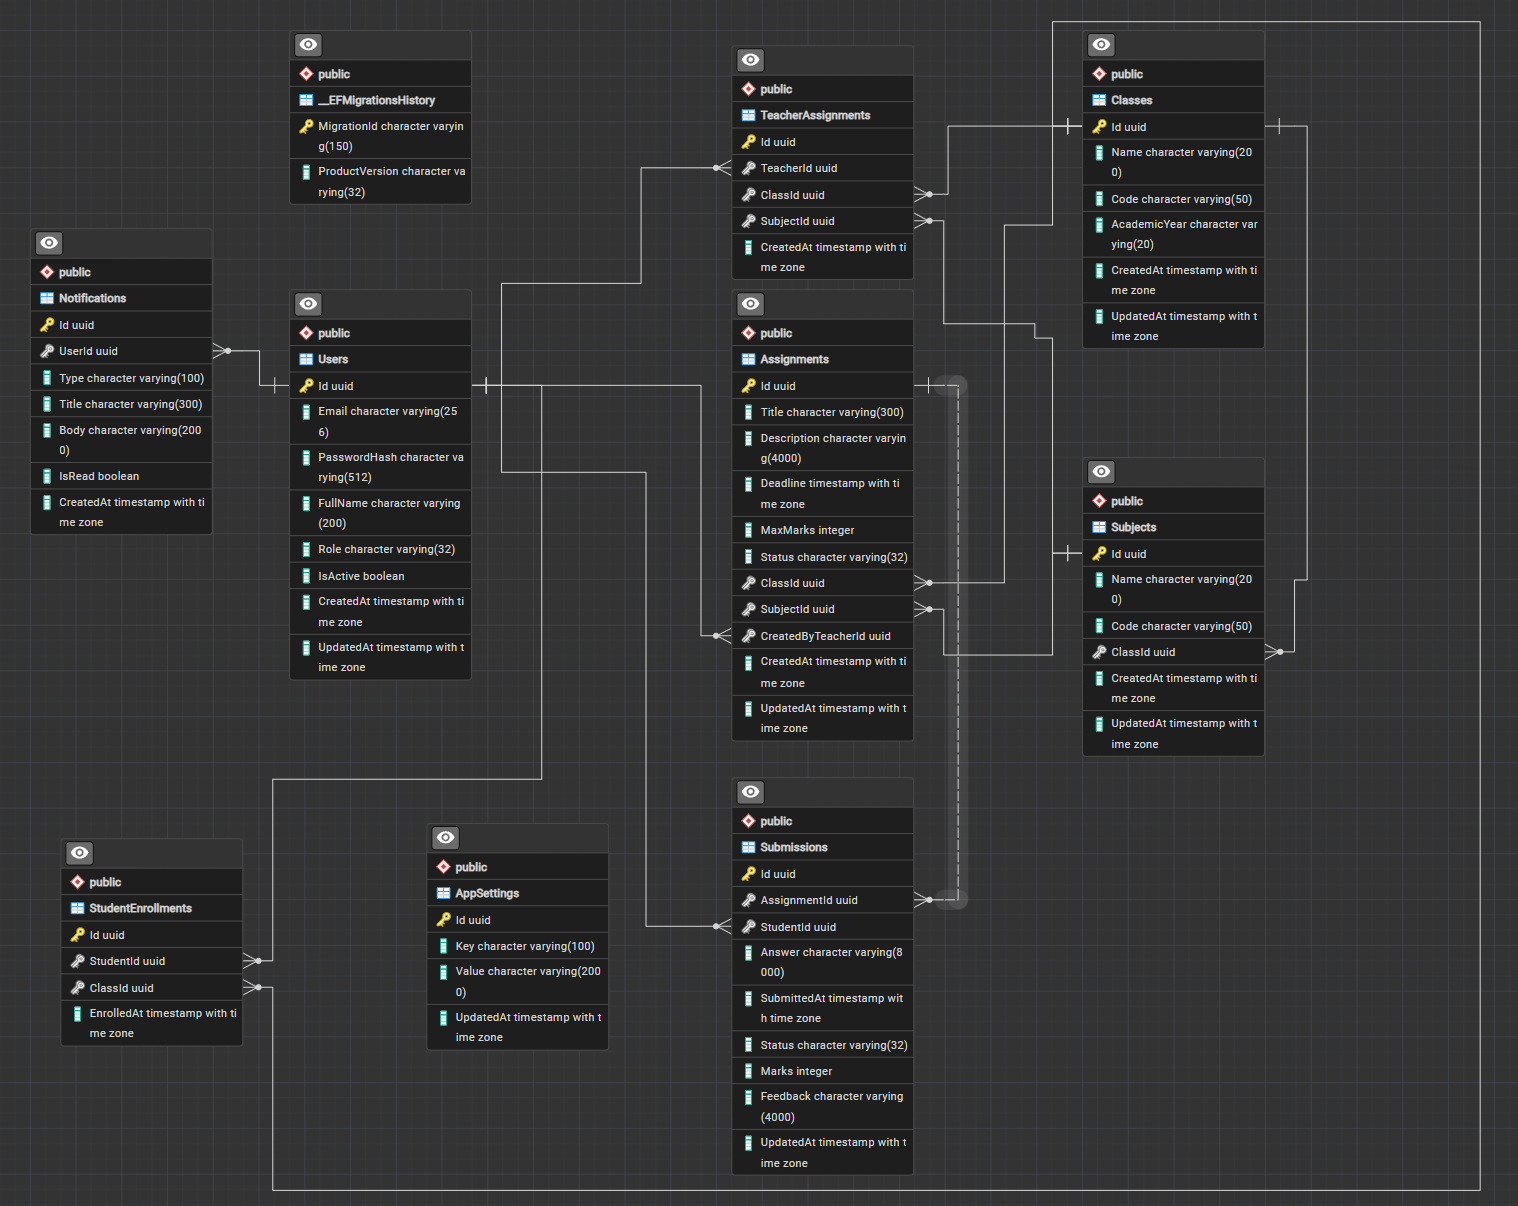
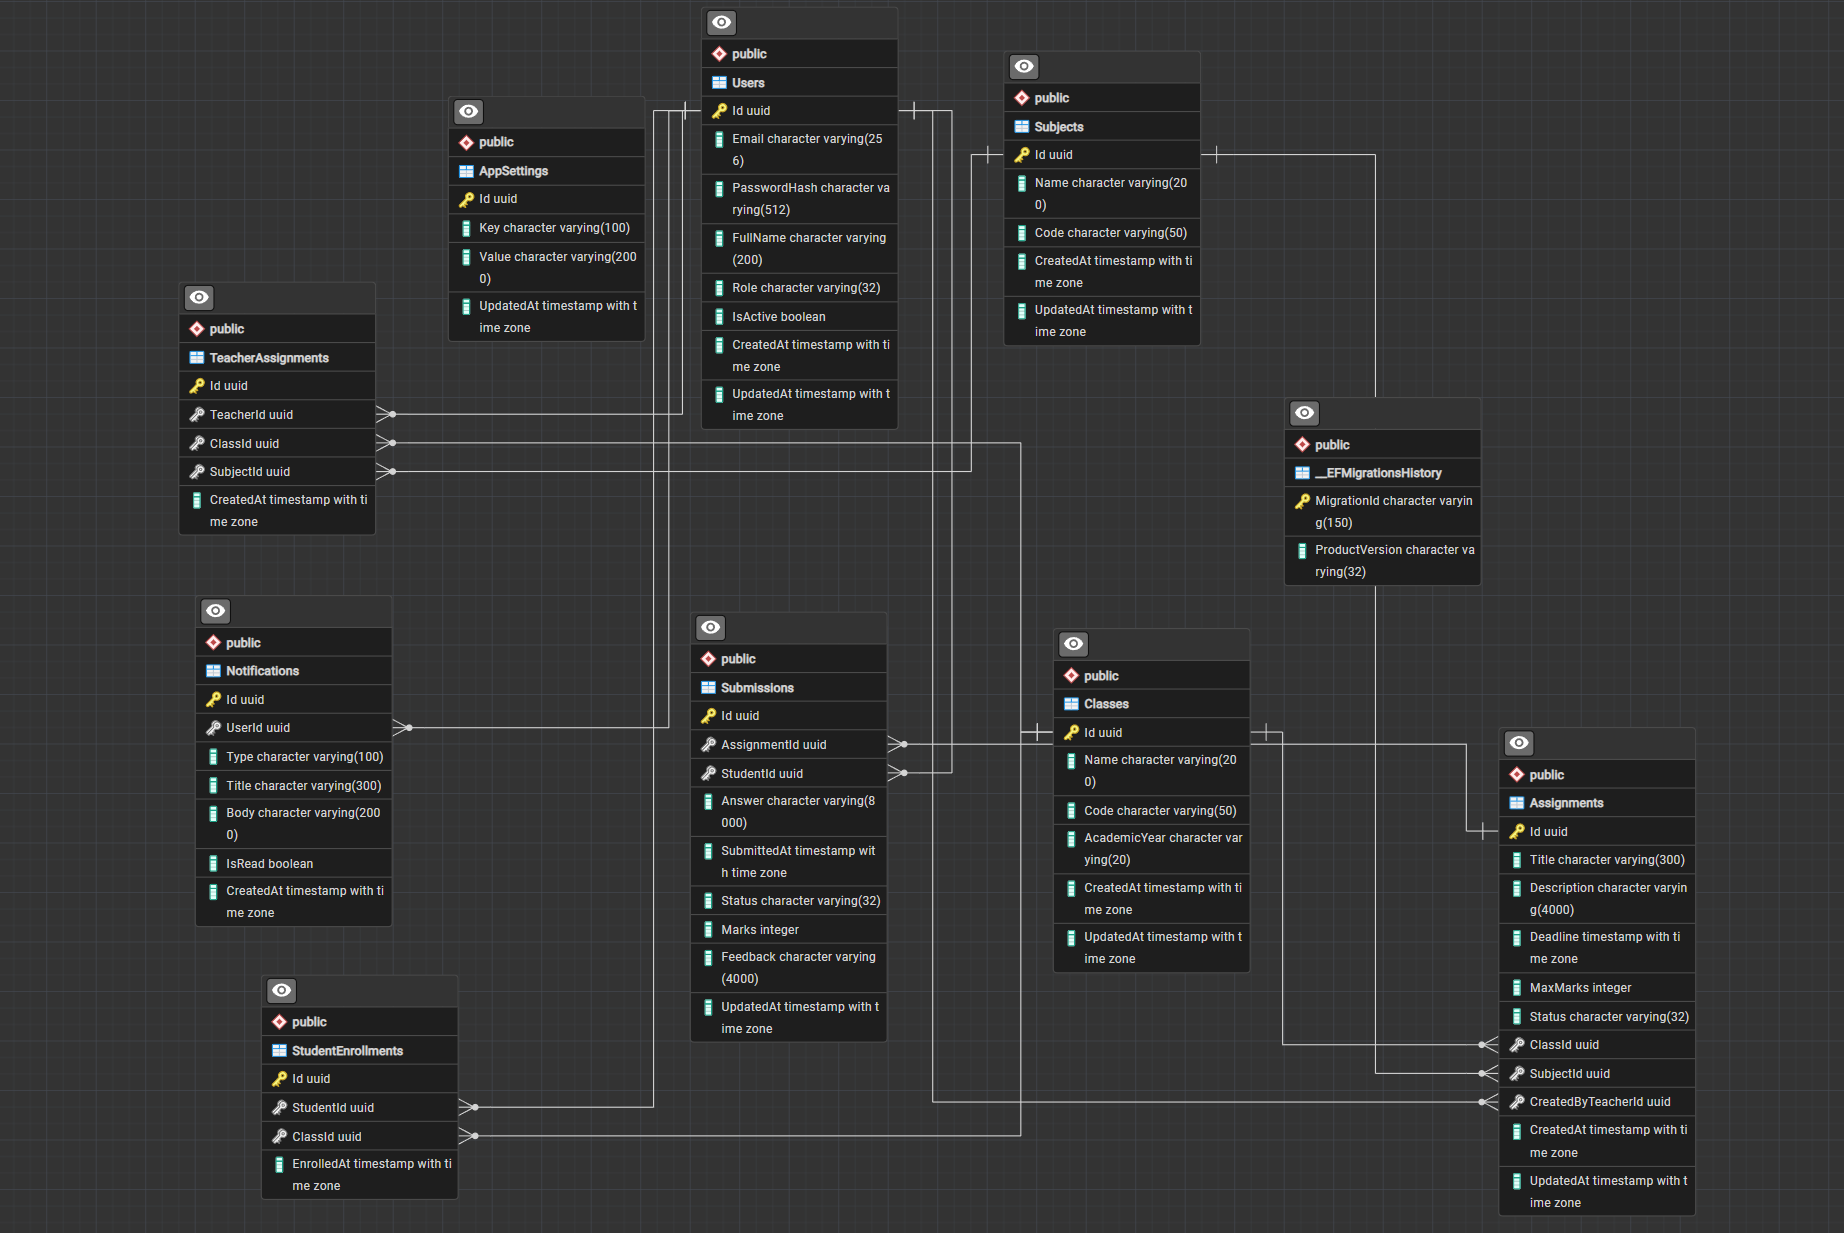
Update README.md to Include Postman API Testing Section
- Added a new section detailing the Postman API testing process, including import instructions and run order for testing various API endpoints.
- Updated navigation links to include a reference to the Postman section, improving accessibility for users.
- Enhanced the description of the Postman collection to cover additional features and testing capabilities, ensuring comprehensive documentation for API users.

Changed region(s): [[0.0, 0.0, 0.9289, 0.9818], [0.7121, 0.0, 0.836, 0.3068], [0.2477, 0.8897, 0.2787, 0.9204]]

diff --git a/README.md b/README.md
@@ -16,7 +16,7 @@
 
 ---
 
-[Live Demo](#-live-demo) • [Architecture & Design](#-architecture--design) • [Tech Stack](#-tech-stack) • [Quick Start](#-quick-start) • [Testing & Quality](#-testing--quality) • [Database & Migrations](#-database--migrations) • [Demo Credentials](#-demo-credentials) • [API & Health](#-api--health-monitoring) • [Deployment](#-deployment-guide)
+[Live Demo](#-live-demo) • [Architecture & Design](#-architecture--design) • [Tech Stack](#-tech-stack) • [Quick Start](#-quick-start) • [Testing & Quality](#-testing--quality) • [Database & Migrations](#-database--migrations) • [Demo Credentials](#-demo-credentials) • [API & Health](#-api--health-monitoring) • [Postman](#-postman-api-testing) • [Deployment](#-deployment-guide)
 
 ---
 
@@ -275,6 +275,10 @@ cd frontend
 npx prettier --write .
 ```
 
+### Postman (API smoke & RBAC)
+
+Import [`docs/School Management API.postman_collection.json`](docs/School%20Management%20API.postman_collection.json) and follow [Postman API testing](#-postman-api-testing).
+
 ---
 
 ## 💾 Database & Migrations
@@ -350,7 +354,34 @@ HEAD /api/health
 Interactive OpenAPI documentation is dynamically served:
 
 - **Swagger UI (Development):** `http://localhost:5000/swagger`
-- **Postman Collection:** [`docs/School Management API.postman_collection.json`](<file:///home/ash/githubRepos/SchoolManagement(.net)/docs/School%20Management%20API.postman_collection.json>)
+
+For request-level tests (status codes, response shape, JWT/RBAC), use the [Postman collection](#-postman-api-testing).
+
+---
+
+## 📬 Postman API Testing
+
+The collection [`docs/School Management API.postman_collection.json`](docs/School%20Management%20API.postman_collection.json) covers Health, Auth, Users, Classes, Subjects, Teacher Assignments, Enrollments, Assignments, Submissions, Dashboard, Notifications, Settings, and Access Control (`401` / `403` / `404` RBAC). Each request includes Postman tests for status and response shape (or side effects).
+
+### Import
+
+1. Open [Postman](https://www.postman.com/downloads/).
+2. **Import** → **File** → select `docs/School Management API.postman_collection.json`.
+3. Confirm collection variable `baseUrl` is `http://localhost:5000` (or point it at a deployed API).
+
+No separate Postman Environment file is required; tokens and seeded IDs live on the collection.
+
+### Run order
+
+Start the API first ([Quick Start](#-quick-start)). Seeded demo users must exist (`DbSeeder` on empty `Users`).
+
+1. **Auth** — run **Login - Admin**, **Login - Teacher**, **Login - Student**, and **Login - Student 2**. Successful logins write `adminToken`, `teacherToken`, `studentToken`, `student2Token`, and `bearerToken` as collection variables.
+2. **Health** and role folders (Users, Classes, Subjects, Teacher Assignments, Enrollments, Assignments, Submissions, Dashboard, Notifications, Settings) — use the saved JWTs. Seeded IDs (`adminId`, `teacherId`, `studentId`, `classId`, `subjectId`, `draftAssignmentId`, `publishedAssignmentId`, …) match `DbSeeder`.
+3. **Access Control** — run after logins so 401/403 cases use the correct role tokens.
+
+Use **Collection Runner** (or Newman) to execute the full collection; run **Auth** before folders that send `Authorization: Bearer {{…Token}}`.
+
+Demo passwords are listed under [Demo Credentials](#-demo-credentials).
 
 ---
 
